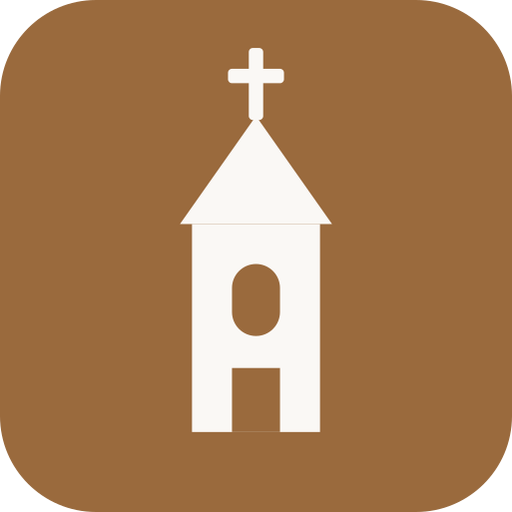
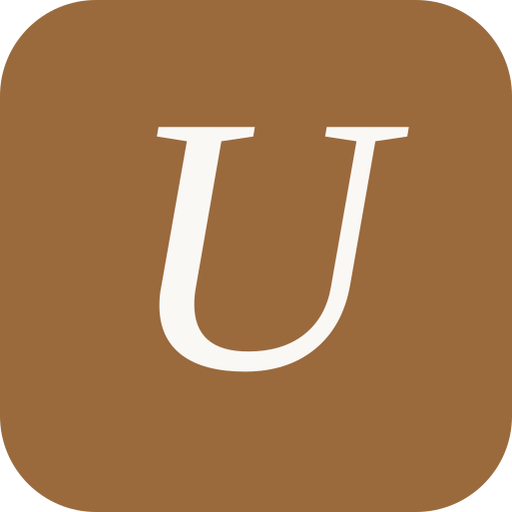
refactor(ui): bilder raus, slot für echte fotos rein
eigene svg-zeichnung (kirchturm) und farbverlauf-platzhalter
entfernt. favicon ist jetzt ein typografisches U statt einer
nachgemalten silhouette. neuer figure-baustein, der mit src
echte fotos über astro:assets rendert und ohne src nur einen
ruhigen platzhalter zeigt. assets/images-ordner und readme-
anleitung für späteres einpflegen.

Changed region(s): [[0.2812, 0.0938, 0.8125, 0.8438]]

diff --git a/README.md b/README.md
@@ -67,6 +67,25 @@ Wer Texte ändern will, findet sie hier:
 - Vereine und Institutionen: `src/components/Institutionen.astro`
 - Fußzeile: `src/components/Footer.astro`
 
+## Bilder hinzufügen
+
+Echte Fotos kommen nach `src/assets/images/`. Astro optimiert sie beim Build (WebP, mehrere Größen, Lazy Loading). Vorgehen:
+
+1. Datei nach `src/assets/images/` legen, zum Beispiel `main-blick.jpg`.
+2. In dem Astro-Komponentenfile, in dem das Bild erscheinen soll, importieren und in `<Figure>` einsetzen:
+
+   ```astro
+   ---
+   import Figure from "~/components/Figure.astro";
+   import mainBlick from "~/assets/images/main-blick.jpg";
+   ---
+   <Figure src={mainBlick} alt="Blick über den Main bei Untereuerheim" caption="Main, Höhe Untereuerheim" aspect="3 / 2" />
+   ```
+
+Ohne `src` rendert `<Figure>` nur einen ruhigen Platzhalter in der Hintergrundfarbe. Mit `src` wird die volle `astro:assets`-Pipeline genutzt.
+
+Für ein Hero-Hintergrundbild: Bild importieren und als `<Image>` mit `position: absolute; inset: 0; object-fit: cover` als untere Ebene unter den Hero-Text legen.
+
 ## Quellen
 
 Die Chronik stützt sich auf die Angaben der Gemeinde Grettstadt, des Bistums Würzburg und der gängigen Lexika. Wer einen Fehler findet, soll ihn bitte melden.
